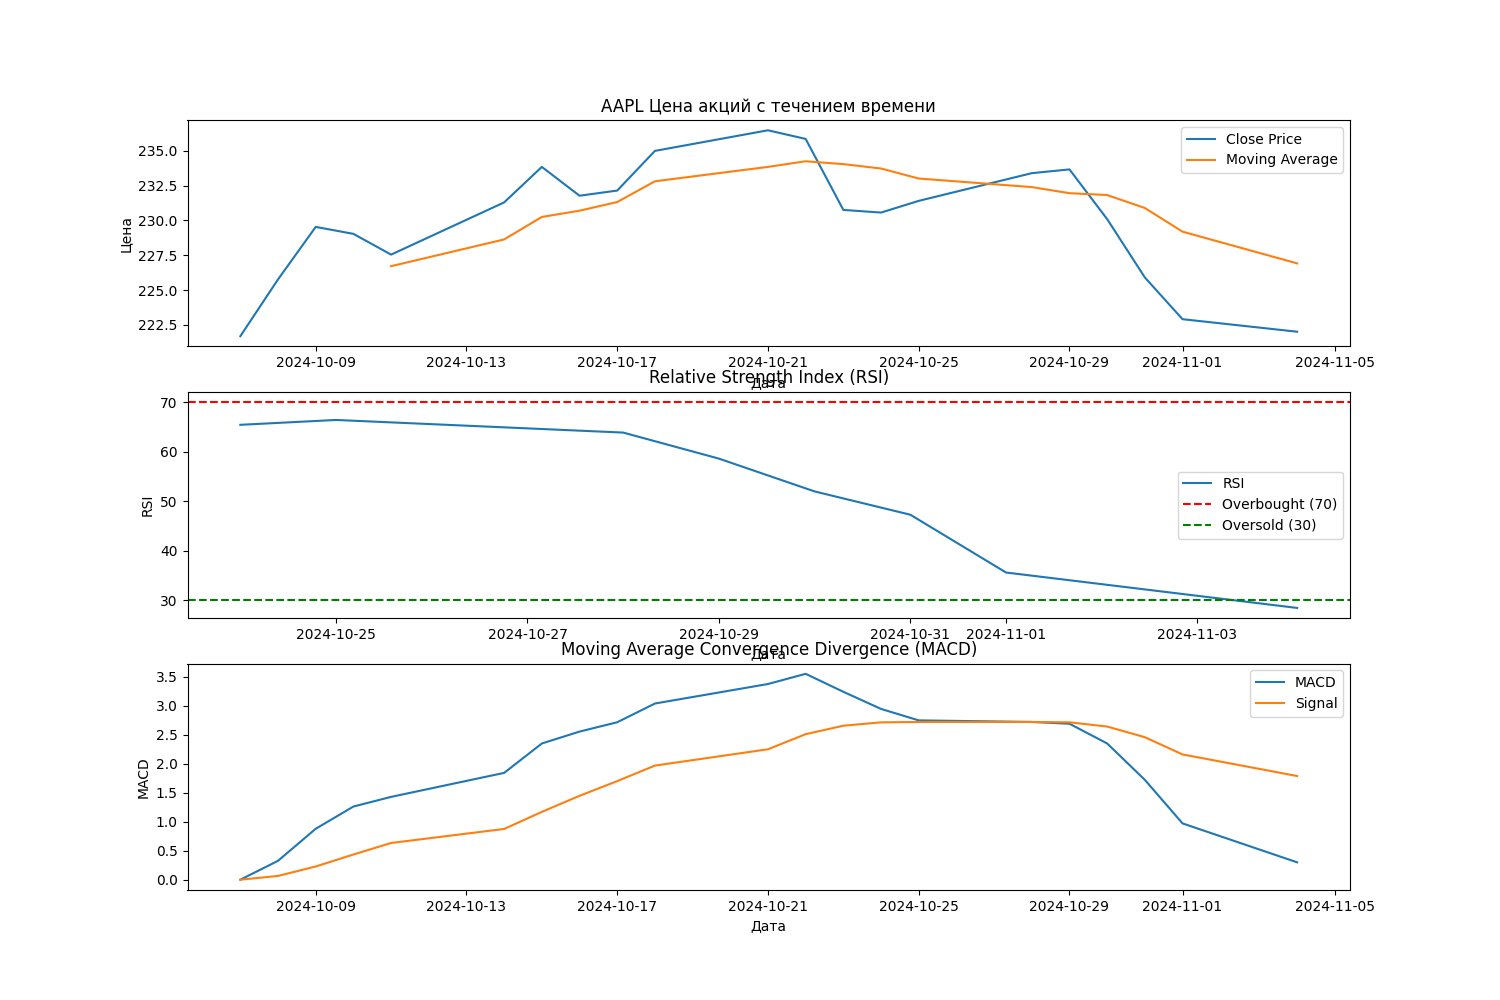
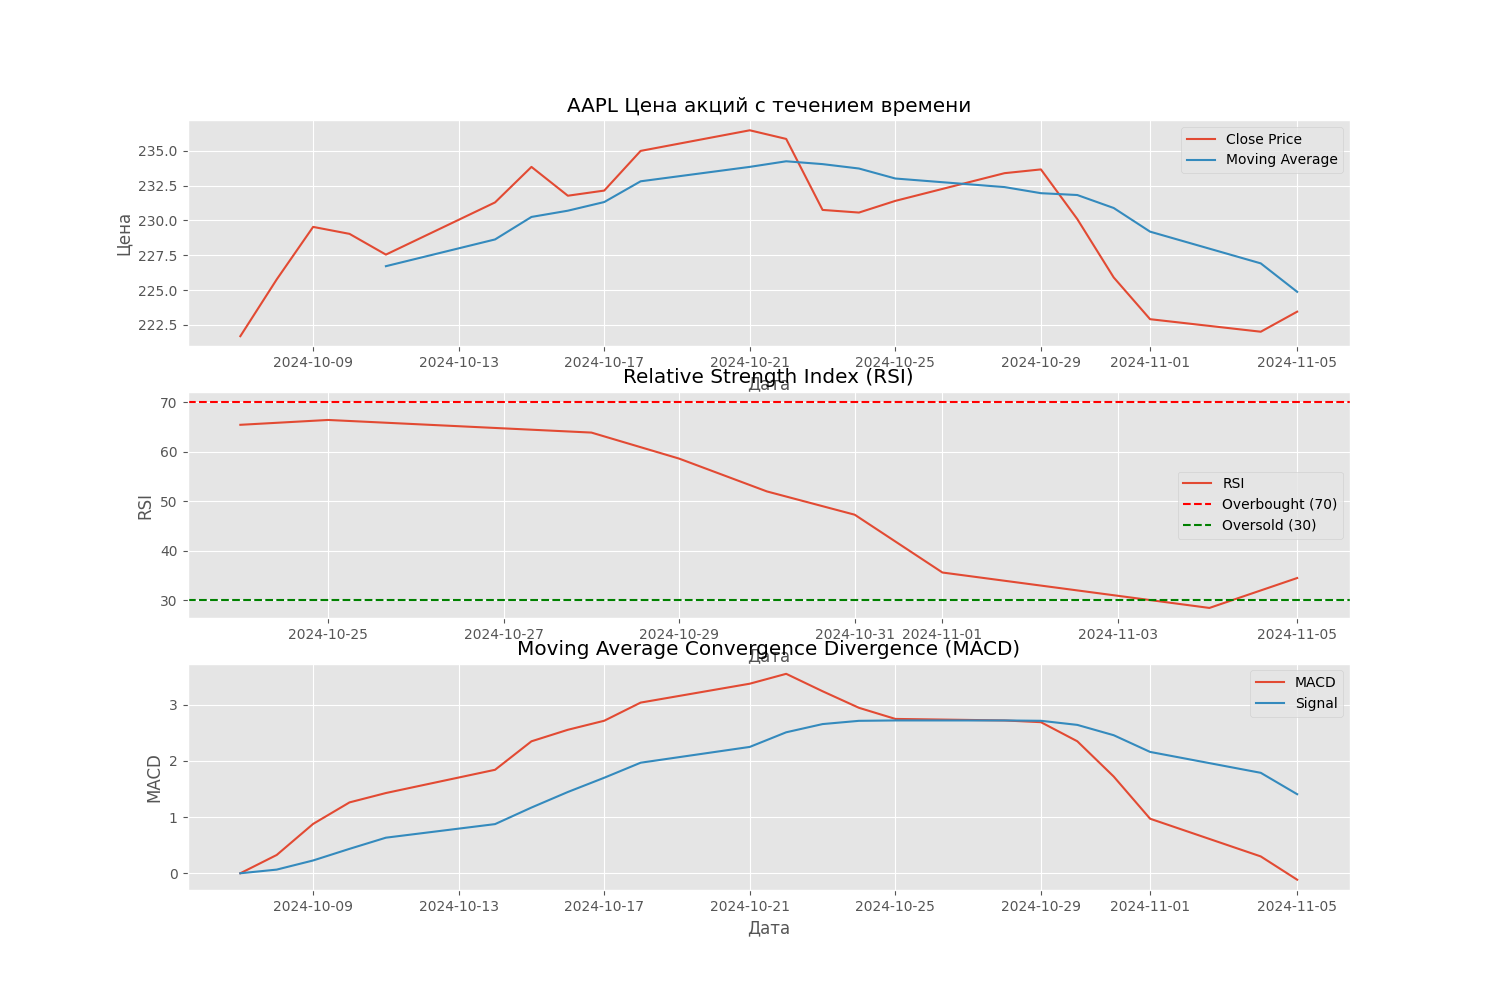
Добавление параметра для выбора стиля графика

diff --git a/data_plotting.py b/data_plotting.py
@@ -6,7 +6,7 @@ import logging
 logging.basicConfig(level=logging.INFO, format='%(asctime)s - %(levelname)s - %(message)s')
 
 
-def create_and_save_plot(data, ticker, period, filename=None):
+def create_and_save_plot(data, ticker, period, filename=None, style='default'):
     """
     Создает и сохраняет график цены акций, скользящего среднего, RSI и MACD.
 
@@ -14,8 +14,18 @@ def create_and_save_plot(data, ticker, period, filename=None):
     :param ticker: Символ акции.
     :param period: Период данных.
     :param filename: Имя файла для сохранения графика.
+    :param style: Стиль оформления графика (например, 'seaborn', 'ggplot', 'default').
     """
-    logging.info(f"Создание графика для тикера {ticker} за период {period}")
+    logging.info(f"Создание графика для тикера {ticker} за период {period} со стилем {style}")
+
+    # Проверяем, является ли стиль допустимым
+    if style not in plt.style.available:
+        logging.warning(f"Стиль '{style}' не найден. Используется стиль по умолчанию.")
+        style = 'default'
+
+    # Применяем выбранный стиль
+    plt.style.use(style)
+
     plt.figure(figsize=(15, 10))
 
     # График цены и скользящего среднего

diff --git a/main.py b/main.py
@@ -26,6 +26,7 @@ def main():
 
     threshold = float(input("Введите порог колебаний в процентах (например, 10 для 10%): "))
     csv_filename = input("Введите имя файла для экспорта данных в CSV (например, 'data.csv'): ")
+    style = input("Введите стиль оформления графика (например, 'seaborn', 'ggplot', 'default'): ")
 
     # Add moving average to the data
     stock_data = dd.add_moving_average(stock_data)
@@ -46,7 +47,7 @@ def main():
     dd.export_data_to_csv(stock_data, csv_filename)
 
     # Plot the data
-    dplt.create_and_save_plot(stock_data, ticker, period)
+    dplt.create_and_save_plot(stock_data, ticker, period, style=style)
 
     logging.info("Программа завершена")
 
